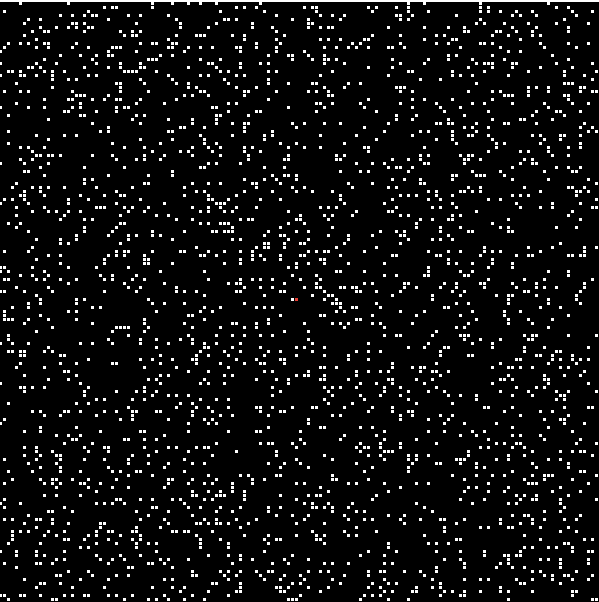
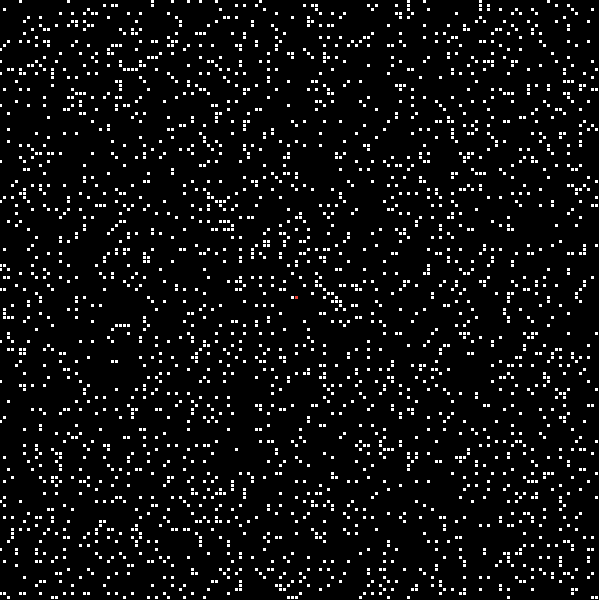
styling: centered image

diff --git a/src/App.css b/src/App.css
@@ -184,15 +184,6 @@ div[class^='headerBar-button']:hover {
   cursor: pointer;
 }
 
-.HoverMenu {
-  position: absolute;
-  top: 100%;
-  display: flex;
-  flex-direction: column;
-  width: 100%;
-  background-color: rgba(0, 0, 0, 0.623);
-}
-
 .headerBar-container {
   position: relative;
 }
@@ -229,4 +220,13 @@ blockquote {
 
 blockquote > p {
   margin-top: 0px;
+}
+
+.HoverMenu {
+  position: absolute;
+  top: 100%;
+  display: flex;
+  flex-direction: column;
+  width: 100%;
+  background-color: rgba(0, 0, 0, 0.623);
 }

diff --git a/src/pages/markdown/Codefolio-Ulam-Spiral.md b/src/pages/markdown/Codefolio-Ulam-Spiral.md
@@ -12,54 +12,18 @@ Do ya like prime numbers?
 
 This is a simple pair of scripts written that produce an Ulam spiral and a random spiral (with the same percentage of white squares as the Ulam spiral) in `tkinter`. The program does not use a [sieve](https://en.wikipedia.org/wiki/Sieve_of_Eratosthenes) to determine if a number is prime. Instead, it uses the slower method of calculating modulo every number up to the input’s square root.
 
-```
-teste
-te
-te
-ste
-s
-```
-
 I watched the YouTube video linked above and thought it was interesting, so I decided to recreate it.
 
 ![Ulam Spiral](../oldWebsiteContents/pics/ulam_ulamspiral.png)
 
-> Test caption sdsd scaption sdsd scaption sdsd scaption sdsd scaption sdsd scaption sdsd scaption sdsd scaption sdsd scaption sdsd scaption sdsd scaption sdsd scaption sdsd scaption sdsd scaption sdsd scaption sdsd s
+> An Ulam spiral, starting from the red square in the middle. Prime numbers are white, non-prime are black. Note the diagonals that emerge in the distribution of the prime numbers.
 
-lol
+Here is a random spiral, where each number has the same probability of showing up white as any other number. That probability is the number of white cells over number of total cells in the above image.
 
-lol
+![Random Spiral](../oldWebsiteContents/pics/ulam_randomspiral.png)
 
-lol
+> No diagonals emerge! Prime numbers, seemingly patternless, actually exhibit some predictability and order compared to [(not so) true randomness](https://en.wikipedia.org/wiki/Pseudorandom_number_generator).
 
-lol
+Neat!
 
-lol
-
-v
-
-v
-
-lol
-
-v
-
-v
-
-v
-
-lol
-
-v
-
-lol
-
-lol
-
-lol
-
-lol
-
-lol
-
-v
+Also included in `spiral.py` is a function that takes an integer and returns a hexcode. Passing incrementing numbers to this function sweeps through a rainbow of colors. I cannot for the life of me remember why I made this.
